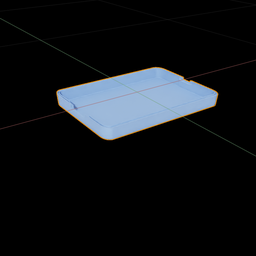
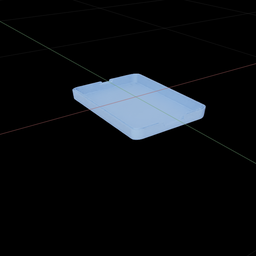
Added domain randomization for tray, including objects following the tray. Also modified image resolution

diff --git a/ur5e_sdg_script.py b/ur5e_sdg_script.py
@@ -20,6 +20,7 @@ simulation_app = SimulationApp(launch_config=CONFIG)
 
 ## This is the path which has the background scene in which objects will be added.
 ENV_URL = os.path.join(os.path.dirname(__file__), "models/table_setup.usd")
+TRAY_URL = os.path.join(os.path.dirname(__file__), "models/tray.usd")
 
 import carb
 import omni
@@ -73,6 +74,12 @@ def main():
     # Create camera with Replicator API for gathering data
     cam = rep.create.camera(focal_length=1.93, focus_distance=0.8, horizontal_aperture=3.896, clipping_range=(0.1, 1000000))
 
+    # Create a tray
+    tray = rep.create.from_usd(TRAY_URL)
+
+    # Plane for scattering objects
+    plane = rep.create.plane(scale=(0.35, 0.5, 1), visible=False, position=(0.6, 0, 1.12))
+
     # trigger replicator pipeline
     with rep.trigger.on_frame(num_frames=CONFIG["num_frames"]):
 
@@ -88,11 +95,22 @@ def main():
         # Randomize camera properties
         with cam:
             rep.modify.pose(
-                position=rep.distribution.uniform((1, 0, 1.85), (1, 0, 1.85)),
-                rotation=rep.distribution.uniform((0, -50, 0), (0, -50, 0))) # ZYX rotation where frames rotate with the sequence!
+                position=rep.distribution.uniform((1, 0, 1.77), (1, 0, 1.83)),
+                rotation=rep.distribution.uniform((0, -52, 0), (0, -48, 0))) # ZYX rotation where frames rotate with the sequence!
+            
+        # Randomize tray and plane pose
+        random_position = rep.distribution.uniform((0.57, -0.03, 1.095), (0.63, 0.03, 1.095))
+        random_rotation = rep.distribution.uniform((0, 0, -2), (0, 0, 2))
+        with tray:
+            rep.modify.pose(
+                position=random_position,
+                rotation=random_rotation)
+        with plane:
+            rep.modify.pose(
+                position=random_position,
+                rotation=random_rotation)
 
         # Randomize object properties
-        plane = rep.create.plane(scale=(0.35, 0.5, 1), visible=False, position=(0.6, 0, 1.12))
         with rep.randomizer.instantiate(paths=[CUBES[0]], 
                                         size=rep.distribution.uniform(0, 5),
                                         semantics=[("class", "cube")]):
